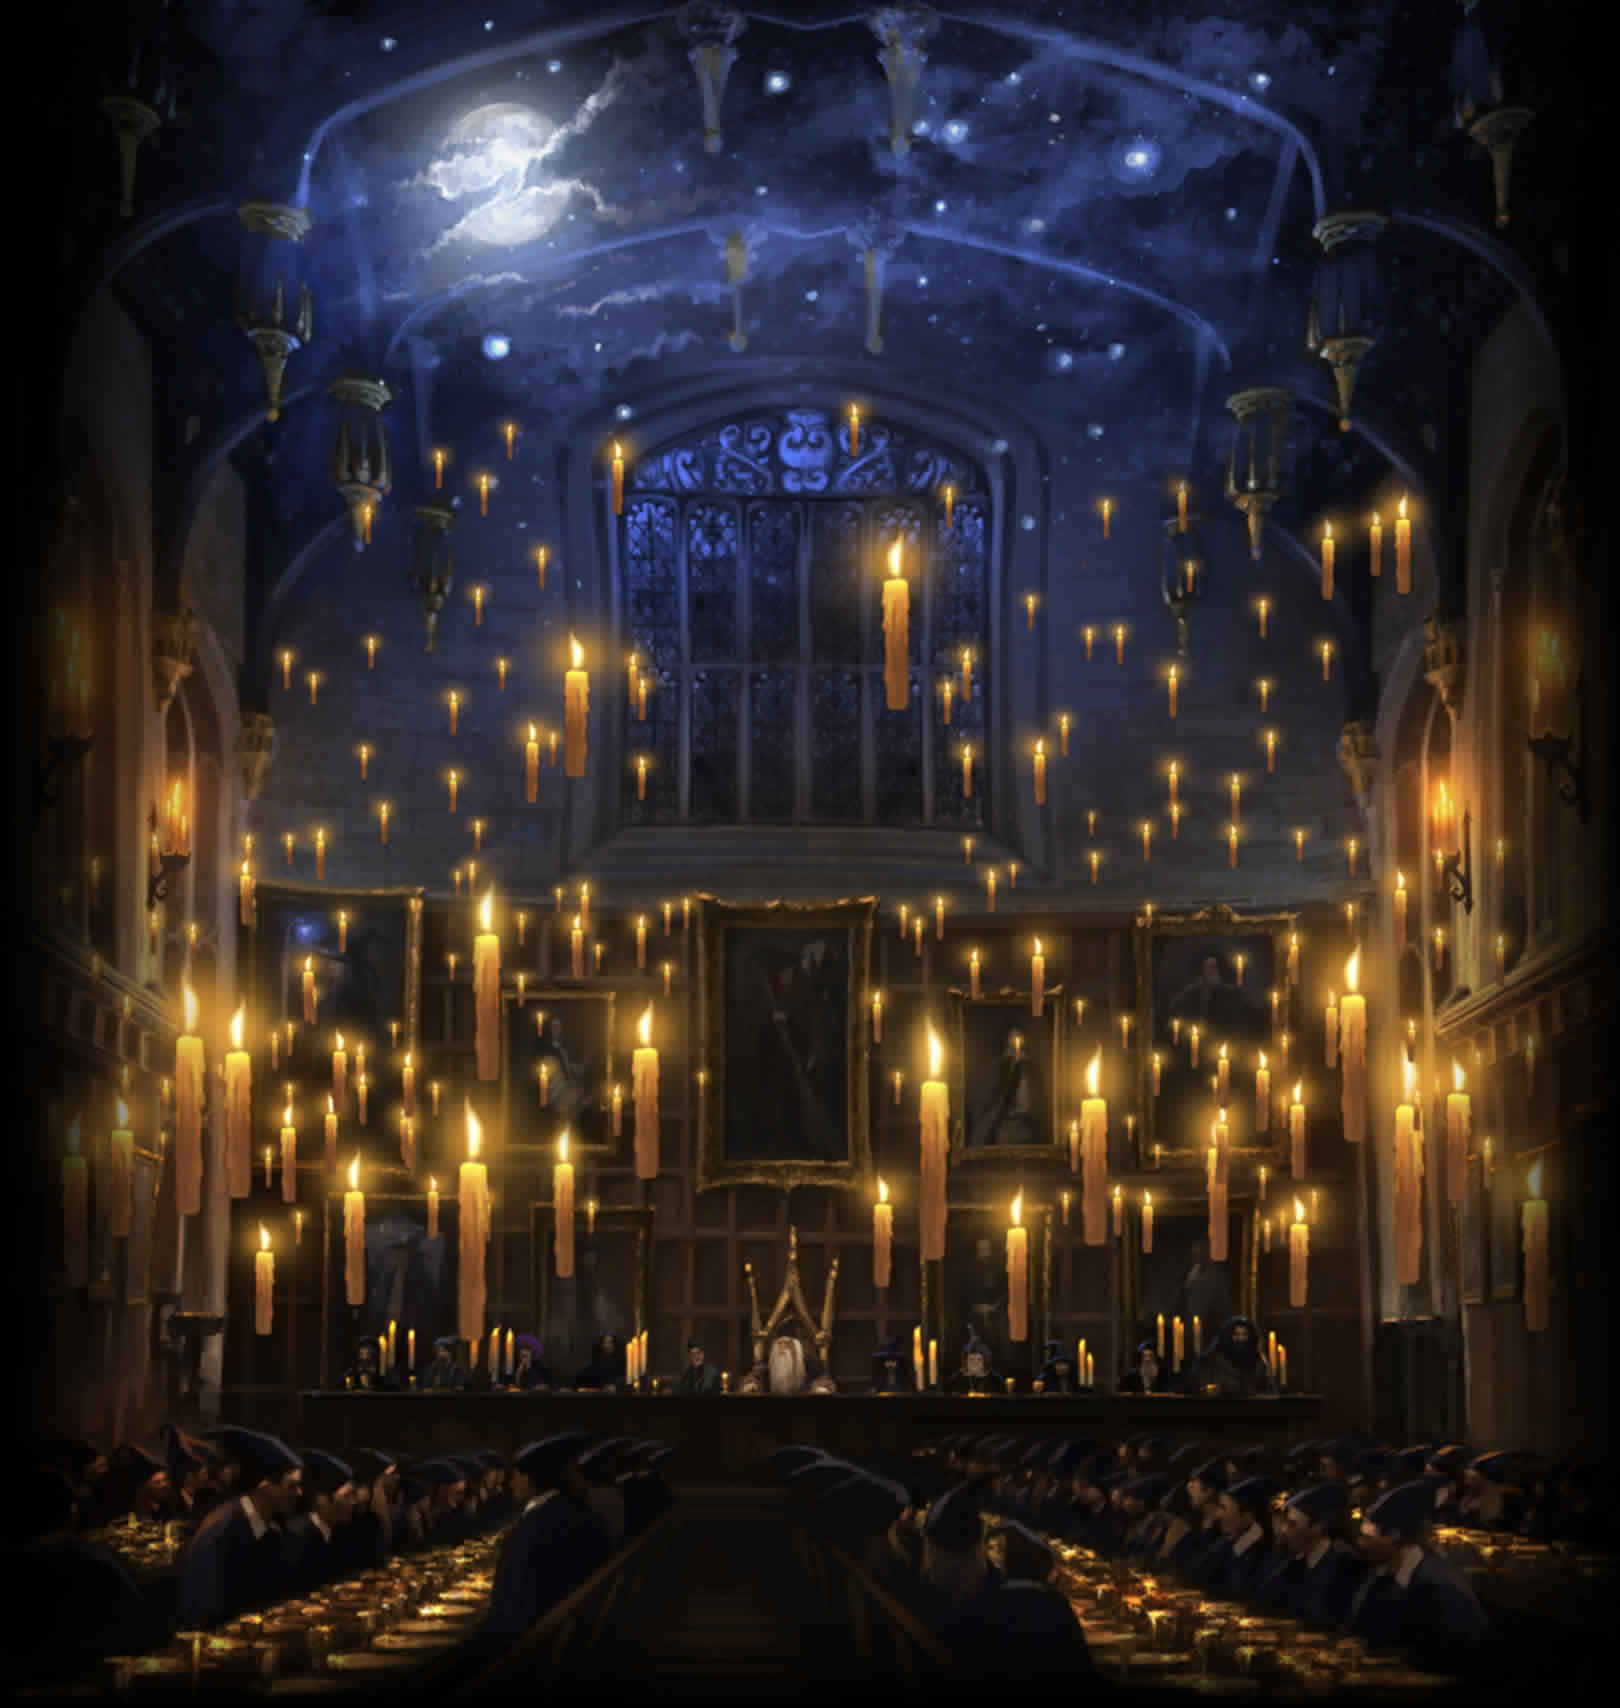
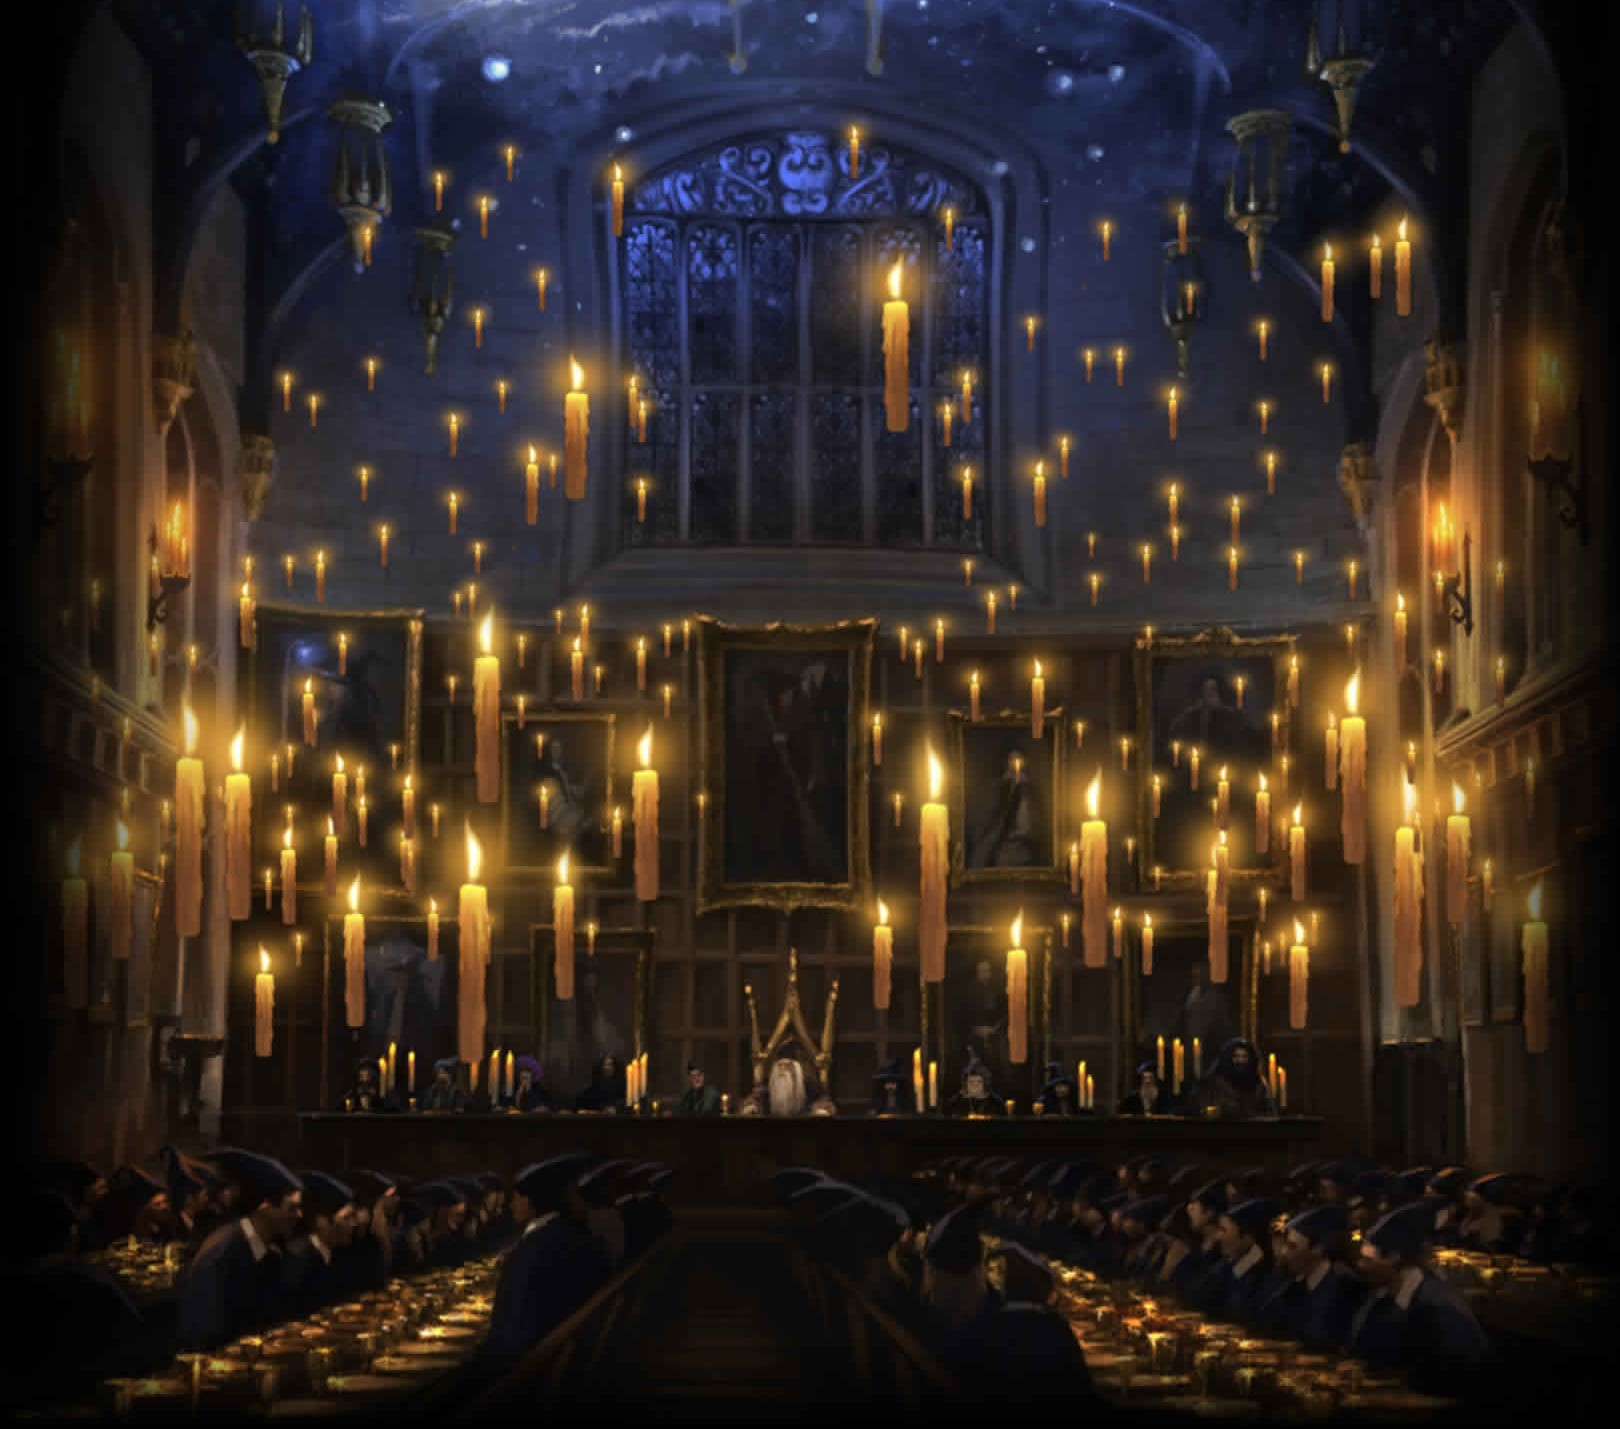
made some changes

diff --git a/main.css b/main.css
@@ -15,7 +15,7 @@ body {
     url(styling/dining.jpg);
     
     background-size: 
-    1400px 1005px,
+    1400px 940px,
     1400px 1005px;
     
     background-position-x:
@@ -34,9 +34,9 @@ body {
 
 .houses {
   width: 25%;
-  height: 50%;
+  height: 35%;
   margin-top: 50px;
-  margin-left: 35%;
+  margin-left: 38%;
   margin-bottom: 0;
   padding-bottom: 0;
 }
@@ -52,7 +52,7 @@ body {
         text-shadow: -1px 0 black, 0 1px black, 1px 0 black, 0 -1px black;
 }
 
-.Huffelpuff {
+.Hufflepuff {
     background: rgb(214, 214, 2);
     color: white;
     border: 5px solid black;

diff --git a/main.js b/main.js
@@ -38,7 +38,7 @@ const cardBuilder = (name) => {
             sortingHouse = 'Slytherin'
         };
         if (randomizer === 3) {
-            sortingHouse = 'Huffelpuff'
+            sortingHouse = 'Hufflepuff'
         };
         if (randomizer === 4) {
             sortingHouse = 'Ravenclaw'
